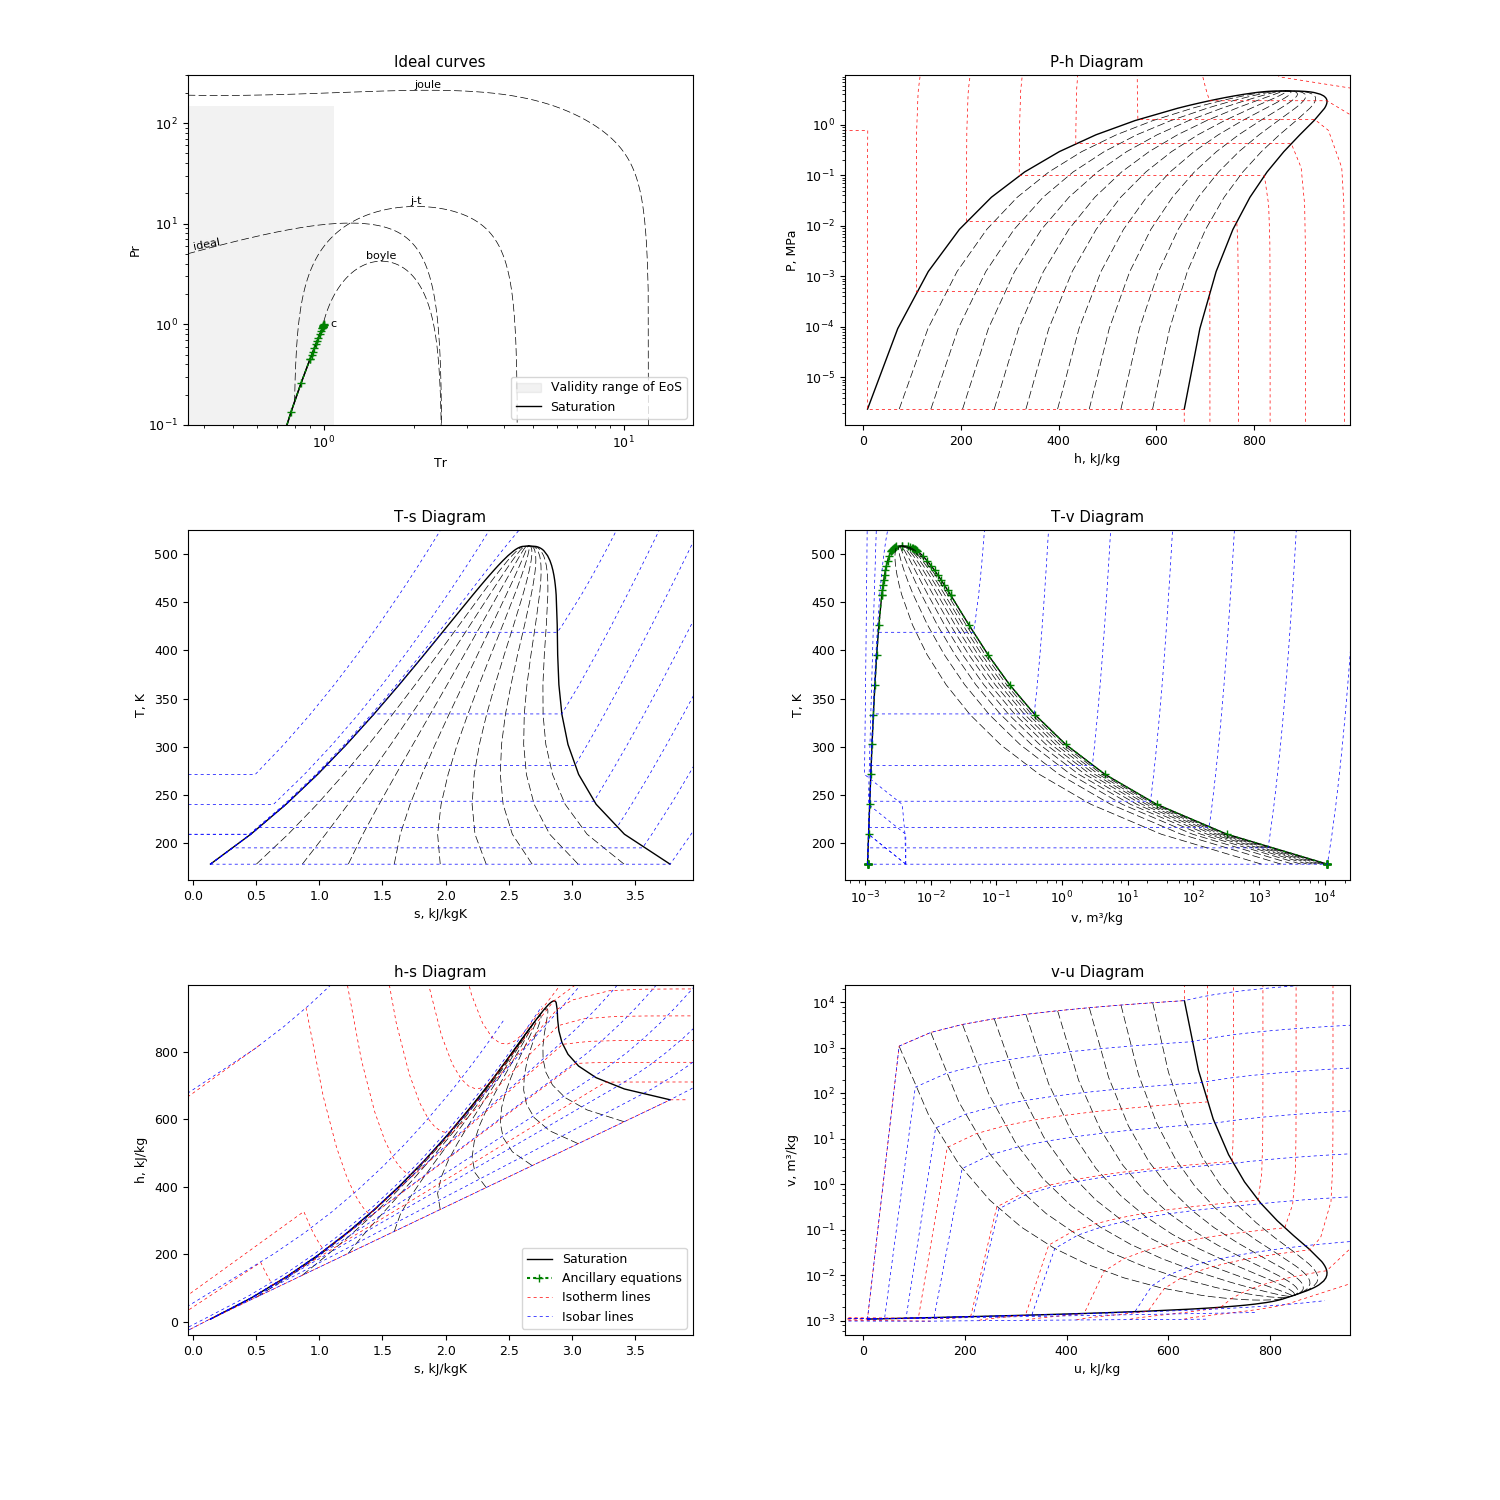
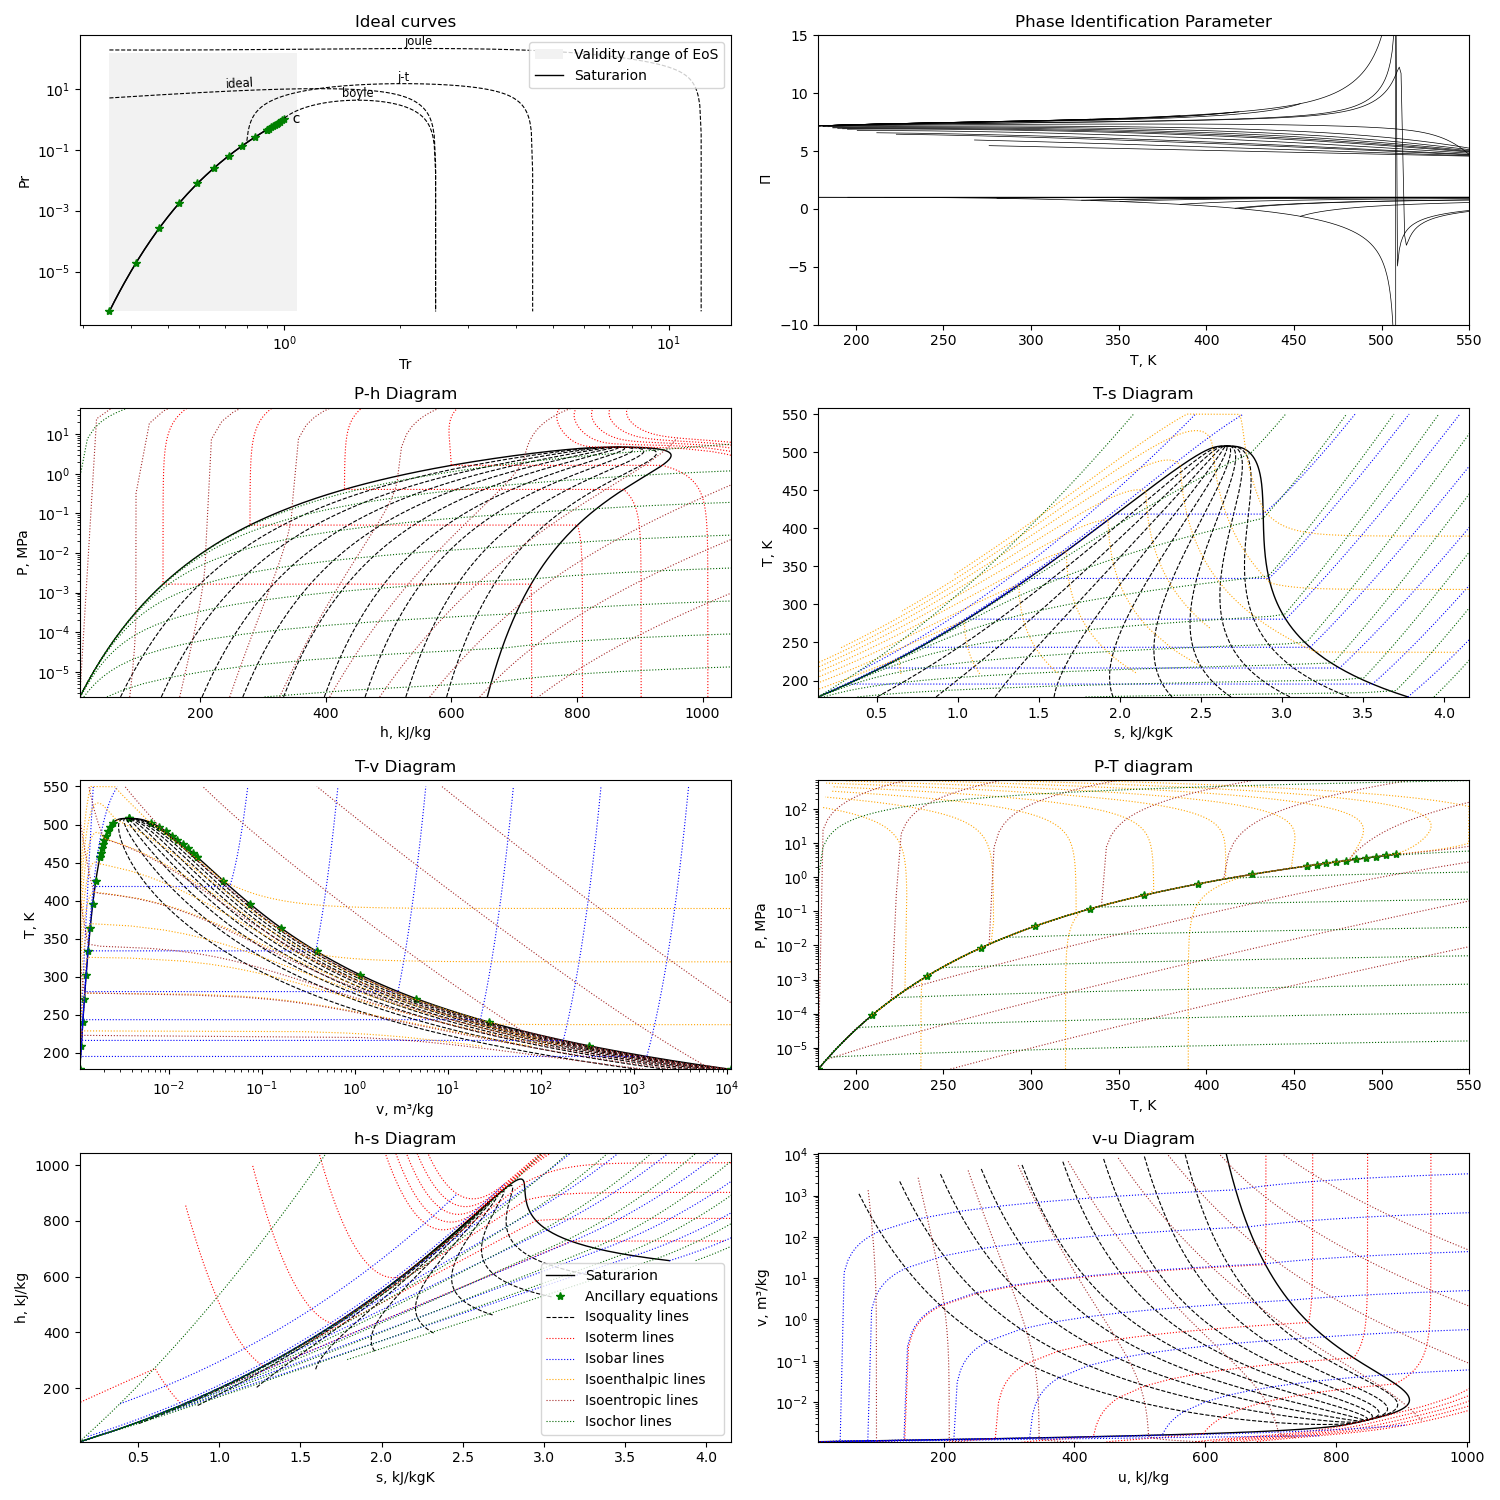
Update heteroatom images for mEoS documentation including PIP plot

diff --git a/.script/plotMEoS.py b/.script/plotMEoS.py
@@ -457,6 +457,7 @@ for P in np.concatenate([isoP, isoP_PIP]):
         point = fluid(P=P, T=t)
 
         if point.status == 1:
+#             print(t, point.T, point.v, point.u)
 
 #             if point.rhoM > point._constants["rhomax"]:
 #                 continue
@@ -478,6 +479,7 @@ for P in np.concatenate([isoP, isoP_PIP]):
                 for p in sat_pnt[::-1]:
                     if p.status == 1:
                         pts.append(p)
+#                         print("SAT", t, p.T, p.v, p.u)
                 sat = False
             pts.append(point)
 
@@ -757,12 +759,12 @@ for curva in ["ideal", "boyle", "joule-thomson", "joule"]:
     pmin = Pmin
     for t in T:
         # Optional limits for ideal curves to avoid false values out of range
-        # if curva in ["ideal", "boyle"]:
-        #     if t > 2.5*fluid.Tc:
-        #         continue
-        # if curva == "joule-thomson":
-        #     if t > 8*fluid.Tc:
-        #         continue
+#         if curva in ["ideal", "boyle"]:
+#             if t > 5*fluid.Tc:
+#                 continue
+#         if curva == "joule-thomson":
+#             if t > 8*fluid.Tc:
+#                 continue
 
         P = fluid()._IdealCurve(curva, t)
         if P is None or P < 0:

diff --git a/lib/meos.py b/lib/meos.py
@@ -6126,6 +6126,9 @@ class MEoS(ThermoAdvanced):
 
                     F = f**0.5/h**(2/3)*(ref.M/self.M)**0.5             # Eq 29
 
+                    if T0 <= ref.eq[0]["Tmin"]:
+                        T0 = ref.eq[0]["Tmin"]
+
                     # Residual contribution using the ecs method
                     kr = F * ref()._ThCond(rho0*chi, T0, fase, thermo0, True)
 
@@ -6553,7 +6556,10 @@ class MEoS(ThermoAdvanced):
                 return prop["firdt"]
 
         if rho0 is None and T < self.Tc:
-            rho0 = self._Liquid_Density(T)
+            rho0 = self._Liquid_Density(self._constants["Tmin"])
+#             rho0 = self._Liquid_Density(T)
+#         elif rho0 is None and T < self.Tc:
+#             rho0 = self.rhoc
         elif rho0 is None:
             rho0 = self.rhoc/3
 

diff --git a/lib/mEoS/Ethanol.py b/lib/mEoS/Ethanol.py
@@ -239,9 +239,13 @@ class Ethanol(MEoS):
         rhor = rho/self.rhoc
 
         # Eq 6
-        mur = rhor**(2/3)*Tr**0.5 * (
-            8.32575272*rhor**2
-            + 9.66535242e-2*rhor**8/(Tr**4*(1+rhor**2)-Tr**2))
+        # Avoid ZeroDivison Error at Tc and rho near 0
+        try:
+            mur = rhor**(2/3)*Tr**0.5 * (
+                8.32575272*rhor**2
+                + 9.66535242e-2*rhor**8/(Tr**4*(1+rhor**2)-Tr**2))
+        except ZeroDivisionError:
+            mur = 0
         return mur
 
     visco1 = {"__name__": "Kiselev (2005)",
